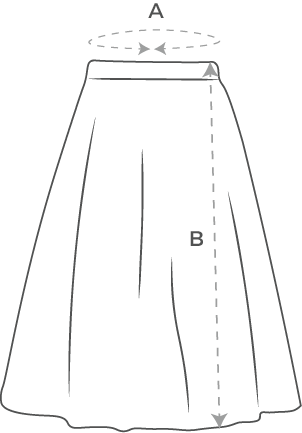
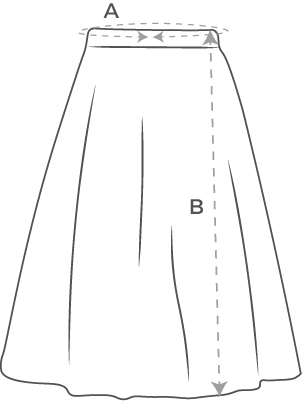
Adds illustrations for shorts and adds missing length attribute 'length' from bottoms.

diff --git a/marketing/email-size-helper-intro.html b/marketing/email-size-helper-intro.html
@@ -1,0 +1,390 @@
+<!DOCTYPE html>
+<html lang="en" xmlns="http://www.w3.org/1999/xhtml" xmlns:v="urn:schemas-microsoft-com:vml" xmlns:o="urn:schemas-microsoft-com:office:office">
+<head>
+  <meta charset="UTF-8">
+  <meta name="viewport" content="width=device-width, initial-scale=1.0">
+  <meta http-equiv="X-UA-Compatible" content="IE=edge">
+  <meta name="x-apple-disable-message-reformatting">
+  <title>RMS Size Helper — Help Customers Find Their Perfect Fit</title>
+  <!--[if mso]>
+  <noscript>
+    <xml>
+      <o:OfficeDocumentSettings>
+        <o:PixelsPerInch>96</o:PixelsPerInch>
+      </o:OfficeDocumentSettings>
+    </xml>
+  </noscript>
+  <![endif]-->
+  <link href="https://fonts.googleapis.com/css2?family=Plus+Jakarta+Sans:wght@600;700&family=DM+Sans:wght@400;500&display=swap" rel="stylesheet" type="text/css">
+  <style type="text/css">
+    /* Reset */
+    body, table, td, a { -webkit-text-size-adjust: 100%; -ms-text-size-adjust: 100%; }
+    table, td { mso-table-lspace: 0pt; mso-table-rspace: 0pt; }
+    img { -ms-interpolation-mode: bicubic; border: 0; height: auto; line-height: 100%; outline: none; text-decoration: none; }
+    body { margin: 0 !important; padding: 0 !important; background-color: #f8f5ef; }
+    a { color: inherit; text-decoration: none; }
+
+    /* Responsive */
+    @media only screen and (max-width: 620px) {
+      .email-container { width: 100% !important; }
+      .hero-headline { font-size: 26px !important; line-height: 34px !important; }
+      .hero-sub { font-size: 15px !important; }
+      .feature-icon { font-size: 36px !important; }
+      .step-col { display: block !important; width: 100% !important; }
+      .step-col td { display: block !important; }
+      .stat-col { display: block !important; width: 100% !important; padding-bottom: 24px !important; }
+      .section-pad { padding: 36px 20px !important; }
+      .btn { padding: 14px 28px !important; font-size: 15px !important; }
+    }
+  </style>
+</head>
+<body style="margin:0;padding:0;background-color:#f8f5ef;">
+
+  <!-- Preheader (hidden preview text) -->
+  <div style="display:none;font-size:1px;color:#f8f5ef;line-height:1px;max-height:0px;max-width:0px;opacity:0;overflow:hidden;">
+    Your customers are guessing their size. Here's how to fix that — for free. &nbsp;&zwnj;&nbsp;&zwnj;&nbsp;&zwnj;&nbsp;&zwnj;&nbsp;&zwnj;&nbsp;&zwnj;&nbsp;&zwnj;&nbsp;&zwnj;
+  </div>
+
+  <!-- Email wrapper -->
+  <table role="presentation" cellspacing="0" cellpadding="0" border="0" align="center" width="100%" style="background-color:#f8f5ef;">
+    <tr>
+      <td align="center" style="padding:20px 0;">
+
+        <!-- Email container -->
+        <table class="email-container" role="presentation" cellspacing="0" cellpadding="0" border="0" align="center" width="600" style="max-width:600px;margin:0 auto;">
+
+
+          <!-- ─────────────────────────────────────── -->
+          <!-- HEADER                                  -->
+          <!-- ─────────────────────────────────────── -->
+          <tr>
+            <td style="background-color:#f8f5ef;padding:24px 32px 20px;border-radius:12px 12px 0 0;border-top:3px solid #426161;">
+              <table role="presentation" cellspacing="0" cellpadding="0" border="0" width="100%">
+                <tr>
+                  <td>
+                    <span style="font-family:'Plus Jakarta Sans',Arial,sans-serif;font-size:20px;font-weight:700;color:#426161;letter-spacing:-0.3px;">RMS Size Helper</span>
+                    <span style="font-family:'DM Sans',Arial,sans-serif;font-size:13px;color:#4b5563;margin-left:8px;">by Reedmace</span>
+                  </td>
+                  <td align="right">
+                    <span style="font-family:'DM Sans',Arial,sans-serif;font-size:12px;color:#4b5563;background-color:#f3f6f6;padding:4px 10px;border-radius:20px;display:inline-block;">Shopify App</span>
+                  </td>
+                </tr>
+              </table>
+            </td>
+          </tr>
+
+
+          <!-- ─────────────────────────────────────── -->
+          <!-- HERO                                    -->
+          <!-- ─────────────────────────────────────── -->
+          <tr>
+            <td style="background:linear-gradient(145deg,#213b51 0%,#0f2126 55%,#164862 100%);padding:56px 40px 52px;" class="section-pad">
+              <table role="presentation" cellspacing="0" cellpadding="0" border="0" width="100%">
+                <tr>
+                  <td align="center">
+                    <!-- Eyebrow badge -->
+                    <div style="display:inline-block;background-color:rgba(232,149,74,0.18);border:1px solid rgba(232,149,74,0.45);border-radius:20px;padding:5px 16px;margin-bottom:24px;">
+                      <span style="font-family:'DM Sans',Arial,sans-serif;font-size:12px;font-weight:500;color:#E8954A;letter-spacing:0.6px;text-transform:uppercase;">Reduce Returns &amp; Boost Conversions</span>
+                    </div>
+                    <!-- Headline -->
+                    <h1 class="hero-headline" style="font-family:'Plus Jakarta Sans',Arial,sans-serif;font-size:34px;font-weight:700;color:#ffffff;line-height:1.2;margin:0 0 18px;letter-spacing:-0.5px;">
+                      Help customers find<br>their perfect fit —<br>every time.
+                    </h1>
+                    <!-- Sub -->
+                    <p class="hero-sub" style="font-family:'DM Sans',Arial,sans-serif;font-size:16px;color:rgba(255,255,255,0.78);line-height:1.65;margin:0 0 36px;max-width:420px;margin-left:auto;margin-right:auto;">
+                      Interactive size charts, a guided fit assessment quiz, and effortless CSV import &amp; export — all on your product page.
+                    </p>
+                    <!-- CTA -->
+                    <a href="https://apps.shopify.com/rms-size-helper" class="btn" style="display:inline-block;background-color:#E8954A;color:#ffffff;font-family:'Plus Jakarta Sans',Arial,sans-serif;font-size:16px;font-weight:700;padding:16px 36px;border-radius:8px;text-decoration:none;letter-spacing:0.1px;">
+                      Add to Shopify — Free
+                    </a>
+                    <p style="font-family:'DM Sans',Arial,sans-serif;font-size:12px;color:rgba(255,255,255,0.45);margin:14px 0 0;">Free plan available · No credit card required</p>
+                  </td>
+                </tr>
+              </table>
+            </td>
+          </tr>
+
+
+          <!-- ─────────────────────────────────────── -->
+          <!-- INTRO LINE                              -->
+          <!-- ─────────────────────────────────────── -->
+          <tr>
+            <td style="background-color:#ffffff;padding:36px 40px 28px;" class="section-pad">
+              <p style="font-family:'DM Sans',Arial,sans-serif;font-size:16px;color:#4b5563;line-height:1.7;margin:0;text-align:center;">
+                Sizing uncertainty is one of the top reasons shoppers abandon their cart or return a purchase. <strong style="color:#252c30;">RMS Size Helper</strong> puts the right information in front of customers exactly when they need it.
+              </p>
+            </td>
+          </tr>
+
+          <!-- Divider -->
+          <tr>
+            <td style="background-color:#ffffff;padding:0 40px;">
+              <div style="border-top:1px solid #dedad4;"></div>
+            </td>
+          </tr>
+
+
+          <!-- ─────────────────────────────────────── -->
+          <!-- FEATURE 1: GUIDED SIZE ASSESSMENT       -->
+          <!-- ─────────────────────────────────────── -->
+          <tr>
+            <td style="background-color:#ffffff;padding:44px 40px;" class="section-pad">
+              <table role="presentation" cellspacing="0" cellpadding="0" border="0" width="100%">
+                <tr>
+                  <td align="center" style="padding-bottom:20px;">
+                    <!-- Icon block -->
+                    <div style="display:inline-block;background-color:#f3f6f6;border-radius:16px;padding:18px;margin-bottom:4px;">
+                      <svg width="36" height="36" viewBox="0 0 36 36" fill="none" xmlns="http://www.w3.org/2000/svg">
+                        <rect width="36" height="36" rx="10" fill="#f3f6f6"/>
+                        <path d="M9 18H27M9 12H21M9 24H24" stroke="#426161" stroke-width="2.5" stroke-linecap="round"/>
+                        <circle cx="27" cy="12" r="3" fill="#E8954A"/>
+                        <circle cx="24" cy="24" r="3" fill="#E8954A"/>
+                      </svg>
+                    </div>
+                  </td>
+                </tr>
+                <tr>
+                  <td align="center">
+                    <h2 style="font-family:'Plus Jakarta Sans',Arial,sans-serif;font-size:22px;font-weight:700;color:#2f4859;margin:0 0 14px;letter-spacing:-0.3px;">Guided Size Assessment</h2>
+                    <p style="font-family:'DM Sans',Arial,sans-serif;font-size:15px;color:#252c30;line-height:1.7;margin:0 0 20px;max-width:440px;margin-left:auto;margin-right:auto;">
+                      Your customers answer a few simple questions — body shape, fit preference, and optional measurements — and RMS Size Helper recommends their exact size. No more guesswork, no more back-and-forth with your support team.
+                    </p>
+                    <!-- Pill -->
+                    <div style="display:inline-block;background-color:#f3f6f6;border-radius:20px;padding:7px 18px;">
+                      <span style="font-family:'DM Sans',Arial,sans-serif;font-size:13px;font-weight:500;color:#426161;">✓ &nbsp;Supports men's, women's &amp; unisex sizing</span>
+                    </div>
+                  </td>
+                </tr>
+              </table>
+            </td>
+          </tr>
+
+
+          <!-- ─────────────────────────────────────── -->
+          <!-- FEATURE 2: CSV IMPORT / EXPORT          -->
+          <!-- ─────────────────────────────────────── -->
+          <tr>
+            <td style="background-color:#f3f6f6;padding:44px 40px;" class="section-pad">
+              <table role="presentation" cellspacing="0" cellpadding="0" border="0" width="100%">
+                <tr>
+                  <td align="center" style="padding-bottom:20px;">
+                    <div style="display:inline-block;background-color:#ffffff;border-radius:16px;padding:18px;">
+                      <svg width="36" height="36" viewBox="0 0 36 36" fill="none" xmlns="http://www.w3.org/2000/svg">
+                        <rect width="36" height="36" rx="10" fill="#ffffff"/>
+                        <!-- Grid lines -->
+                        <rect x="8" y="8" width="20" height="20" rx="3" stroke="#E8954A" stroke-width="2" fill="none"/>
+                        <line x1="8" y1="14" x2="28" y2="14" stroke="#E8954A" stroke-width="1.5"/>
+                        <line x1="8" y1="20" x2="28" y2="20" stroke="#E8954A" stroke-width="1.5"/>
+                        <line x1="16" y1="8" x2="16" y2="28" stroke="#E8954A" stroke-width="1.5"/>
+                        <!-- Down arrow -->
+                        <path d="M24 24L27 27L30 24" stroke="#426161" stroke-width="2" stroke-linecap="round" stroke-linejoin="round"/>
+                        <line x1="27" y1="20" x2="27" y2="27" stroke="#426161" stroke-width="2" stroke-linecap="round"/>
+                      </svg>
+                    </div>
+                  </td>
+                </tr>
+                <tr>
+                  <td align="center">
+                    <h2 style="font-family:'Plus Jakarta Sans',Arial,sans-serif;font-size:22px;font-weight:700;color:#2f4859;margin:0 0 14px;letter-spacing:-0.3px;">Import/Export Size Chart CSV</h2>
+                    <p style="font-family:'DM Sans',Arial,sans-serif;font-size:15px;color:#252c30;line-height:1.7;margin:0 0 20px;max-width:440px;margin-left:auto;margin-right:auto;">
+                      Already have your size data in a spreadsheet? Upload it as a CSV and your size chart is ready instantly. Need to share or back up your chart? Export it just as easily. No manual data entry, no errors — accurate size information flowing both ways.
+                    </p>
+                    <div style="display:inline-block;background-color:#ffffff;border-radius:20px;padding:7px 18px;">
+                      <span style="font-family:'DM Sans',Arial,sans-serif;font-size:13px;font-weight:500;color:#426161;">✓ &nbsp;Works with any existing size spreadsheet</span>
+                    </div>
+                  </td>
+                </tr>
+              </table>
+            </td>
+          </tr>
+
+
+          <!-- ─────────────────────────────────────── -->
+          <!-- FEATURE 3: CUSTOMER CONFIDENCE          -->
+          <!-- ─────────────────────────────────────── -->
+          <tr>
+            <td style="background-color:#2f4859;padding:52px 40px;" class="section-pad">
+              <table role="presentation" cellspacing="0" cellpadding="0" border="0" width="100%">
+                <tr>
+                  <td align="center" style="padding-bottom:32px;">
+                    <h2 style="font-family:'Plus Jakarta Sans',Arial,sans-serif;font-size:22px;font-weight:700;color:#ffffff;margin:0 0 12px;letter-spacing:-0.3px;">Built to Build Confidence</h2>
+                    <p style="font-family:'DM Sans',Arial,sans-serif;font-size:15px;color:rgba(255,255,255,0.72);line-height:1.7;margin:0;max-width:420px;margin-left:auto;margin-right:auto;">
+                      When shoppers are confident in their size, they buy. RMS Size Helper gives them the information they need at the moment of decision — right on the product page.
+                    </p>
+                  </td>
+                </tr>
+                <!-- Stats row -->
+                <tr>
+                  <td align="center">
+                    <table role="presentation" cellspacing="0" cellpadding="0" border="0" align="center">
+                      <tr>
+                        <td class="stat-col" align="center" style="padding:0 20px 0 0;">
+                          <div style="background-color:rgba(255,255,255,0.08);border:1px solid rgba(255,255,255,0.12);border-radius:12px;padding:24px 32px;text-align:center;">
+                            <div style="font-family:'Plus Jakarta Sans',Arial,sans-serif;font-size:38px;font-weight:700;color:#E8954A;line-height:1;margin-bottom:8px;">↓ Returns</div>
+                            <div style="font-family:'DM Sans',Arial,sans-serif;font-size:13px;color:rgba(255,255,255,0.6);line-height:1.4;">Fewer wrong-size<br>returns to process</div>
+                          </div>
+                        </td>
+                        <td class="stat-col" align="center" style="padding:0 0 0 20px;">
+                          <div style="background-color:rgba(255,255,255,0.08);border:1px solid rgba(255,255,255,0.12);border-radius:12px;padding:24px 32px;text-align:center;">
+                            <div style="font-family:'Plus Jakarta Sans',Arial,sans-serif;font-size:38px;font-weight:700;color:#E8954A;line-height:1;margin-bottom:8px;">↑ Conversion</div>
+                            <div style="font-family:'DM Sans',Arial,sans-serif;font-size:13px;color:rgba(255,255,255,0.6);line-height:1.4;">Confident shoppers<br>complete their purchase</div>
+                          </div>
+                        </td>
+                      </tr>
+                    </table>
+                  </td>
+                </tr>
+                <tr>
+                  <td align="center" style="padding-top:28px;">
+                    <p style="font-family:'DM Sans',Arial,sans-serif;font-size:13px;color:rgba(232,149,74,0.75);margin:0;">
+                      Trusted by stores selling apparel, footwear, and accessories.
+                    </p>
+                  </td>
+                </tr>
+              </table>
+            </td>
+          </tr>
+
+
+          <!-- ─────────────────────────────────────── -->
+          <!-- HOW IT WORKS                            -->
+          <!-- ─────────────────────────────────────── -->
+          <tr>
+            <td style="background-color:#f8f5ef;padding:52px 40px;" class="section-pad">
+              <table role="presentation" cellspacing="0" cellpadding="0" border="0" width="100%">
+                <tr>
+                  <td align="center" style="padding-bottom:36px;">
+                    <h2 style="font-family:'Plus Jakarta Sans',Arial,sans-serif;font-size:22px;font-weight:700;color:#2f4859;margin:0;letter-spacing:-0.3px;">Up and running in minutes</h2>
+                  </td>
+                </tr>
+                <tr>
+                  <!-- Step 1 -->
+                  <td class="step-col" align="center" style="width:33.33%;vertical-align:top;padding:0 12px;">
+                    <table role="presentation" cellspacing="0" cellpadding="0" border="0" width="100%">
+                      <tr>
+                        <td align="center" style="padding-bottom:14px;">
+                          <div style="display:inline-block;width:44px;height:44px;background-color:#E8954A;border-radius:50%;text-align:center;line-height:44px;">
+                            <span style="font-family:'Plus Jakarta Sans',Arial,sans-serif;font-size:18px;font-weight:700;color:#ffffff;">1</span>
+                          </div>
+                        </td>
+                      </tr>
+                      <tr>
+                        <td align="center">
+                          <div style="font-family:'Plus Jakarta Sans',Arial,sans-serif;font-size:15px;font-weight:700;color:#2f4859;margin-bottom:8px;">Install</div>
+                          <p style="font-family:'DM Sans',Arial,sans-serif;font-size:13px;color:#4b5563;line-height:1.6;margin:0;">Add RMS Size Helper to your Shopify store in one click</p>
+                        </td>
+                      </tr>
+                    </table>
+                  </td>
+                  <!-- Step 2 -->
+                  <td class="step-col" align="center" style="width:33.33%;vertical-align:top;padding:0 12px;border-left:1px solid #dedad4;border-right:1px solid #dedad4;">
+                    <table role="presentation" cellspacing="0" cellpadding="0" border="0" width="100%">
+                      <tr>
+                        <td align="center" style="padding-bottom:14px;">
+                          <div style="display:inline-block;width:44px;height:44px;background-color:#E8954A;border-radius:50%;text-align:center;line-height:44px;">
+                            <span style="font-family:'Plus Jakarta Sans',Arial,sans-serif;font-size:18px;font-weight:700;color:#ffffff;">2</span>
+                          </div>
+                        </td>
+                      </tr>
+                      <tr>
+                        <td align="center">
+                          <div style="font-family:'Plus Jakarta Sans',Arial,sans-serif;font-size:15px;font-weight:700;color:#2f4859;margin-bottom:8px;">Set Up</div>
+                          <p style="font-family:'DM Sans',Arial,sans-serif;font-size:13px;color:#4b5563;line-height:1.6;margin:0;">Import your size charts via CSV or build from scratch</p>
+                        </td>
+                      </tr>
+                    </table>
+                  </td>
+                  <!-- Step 3 -->
+                  <td class="step-col" align="center" style="width:33.33%;vertical-align:top;padding:0 12px;">
+                    <table role="presentation" cellspacing="0" cellpadding="0" border="0" width="100%">
+                      <tr>
+                        <td align="center" style="padding-bottom:14px;">
+                          <div style="display:inline-block;width:44px;height:44px;background-color:#E8954A;border-radius:50%;text-align:center;line-height:44px;">
+                            <span style="font-family:'Plus Jakarta Sans',Arial,sans-serif;font-size:18px;font-weight:700;color:#ffffff;">3</span>
+                          </div>
+                        </td>
+                      </tr>
+                      <tr>
+                        <td align="center">
+                          <div style="font-family:'Plus Jakarta Sans',Arial,sans-serif;font-size:15px;font-weight:700;color:#2f4859;margin-bottom:8px;">Convert</div>
+                          <p style="font-family:'DM Sans',Arial,sans-serif;font-size:13px;color:#4b5563;line-height:1.6;margin:0;">Shoppers find their size, feel confident, and buy</p>
+                        </td>
+                      </tr>
+                    </table>
+                  </td>
+                </tr>
+              </table>
+            </td>
+          </tr>
+
+
+          <!-- ─────────────────────────────────────── -->
+          <!-- CTA REPEAT                              -->
+          <!-- ─────────────────────────────────────── -->
+          <tr>
+            <td style="background-color:#f3f6f6;padding:52px 40px;text-align:center;" class="section-pad">
+              <h2 style="font-family:'Plus Jakarta Sans',Arial,sans-serif;font-size:26px;font-weight:700;color:#2f4859;margin:0 0 14px;letter-spacing:-0.4px;">Ready to raise shopper confidence?</h2>
+              <p style="font-family:'DM Sans',Arial,sans-serif;font-size:15px;color:#4b5563;line-height:1.7;margin:0 auto 28px;max-width:360px;">
+                Join Shopify merchants who use RMS Size Helper to take the guesswork out of sizing and turn shop-browsers into customers.
+              </p>
+              <a href="https://apps.shopify.com/rms-size-helper" class="btn" style="display:inline-block;background-color:#E8954A;color:#ffffff;font-family:'Plus Jakarta Sans',Arial,sans-serif;font-size:16px;font-weight:700;padding:16px 36px;border-radius:8px;text-decoration:none;">
+                Get Started Free
+              </a>
+              <p style="font-family:'DM Sans',Arial,sans-serif;font-size:12px;color:#4b5563;margin:14px 0 0;">Free plan available · No credit card required · 7-day trial on paid plans</p>
+            </td>
+          </tr>
+
+
+          <!-- ─────────────────────────────────────── -->
+          <!-- FOOTER                                  -->
+          <!-- ─────────────────────────────────────── -->
+          <tr>
+            <td style="background-color:#1e2329;padding:32px 40px;border-radius:0 0 12px 12px;" class="section-pad">
+              <table role="presentation" cellspacing="0" cellpadding="0" border="0" width="100%">
+                <tr>
+                  <td align="center" style="padding-bottom:16px;">
+                    <span style="font-family:'Plus Jakarta Sans',Arial,sans-serif;font-size:15px;font-weight:700;color:#426161;">Reedmace</span>
+                    <span style="font-family:'DM Sans',Arial,sans-serif;font-size:13px;color:rgba(255,255,255,0.35);margin-left:4px;">· by Wrenbys Ltd</span>
+                  </td>
+                </tr>
+                <tr>
+                  <td align="center" style="padding-bottom:16px;">
+                    <span style="font-family:'DM Sans',Arial,sans-serif;font-size:12px;color:rgba(255,255,255,0.35);line-height:1.6;">
+                      167-169 Great Portland Street, 5th Floor, London, W1W 5PF
+                    </span>
+                  </td>
+                </tr>
+                <tr>
+                  <td>
+                    <!-- Fine print / privacy -->
+                    <p style="font-family:-apple-system,BlinkMacSystemFont,'Segoe UI',Arial,sans-serif;font-size:11px;color:#566172;line-height:1.7;margin:0 0 16px 0;max-width:480px;margin-left:auto;margin-right:auto;">
+                      <strong style="color:#a3b0c4;">This is a one-time message.</strong> <span style="color:#8997ac;">Once you delete this email, you will not hear from us again — we do not maintain ongoing marketing lists 
+                        and we do not use tracking pixels to monitor whether this email was opened.</span>
+                      We take your privacy seriously. Your email address was obtained from your website after checking your review on a public website. 
+                      It will never be shared with or sold to third parties. Unless we hear from you, the email address will be deleted from our records after 30 days.
+                      If you have any concerns, please reply to this email or contact us at
+                      <a href="mailto:info@reedmace.net" style="color:#7889a1;">info@reedmace.net</a>.
+                    </p>
+                  </td>
+                </tr>
+                <tr>
+                  <td align="center">
+                    <p style="font-family:'DM Sans',Arial,sans-serif;font-size:11px;color:rgba(255,255,255,0.25);margin:0;">
+                      © 2026 Wrenbys Ltd / Reedmace. All rights reserved.
+                    </p>
+                  </td>
+                </tr>
+              </table>
+            </td>
+          </tr>
+
+        </table>
+        <!-- /Email container -->
+
+      </td>
+    </tr>
+  </table>
+
+</body>
+</html>
